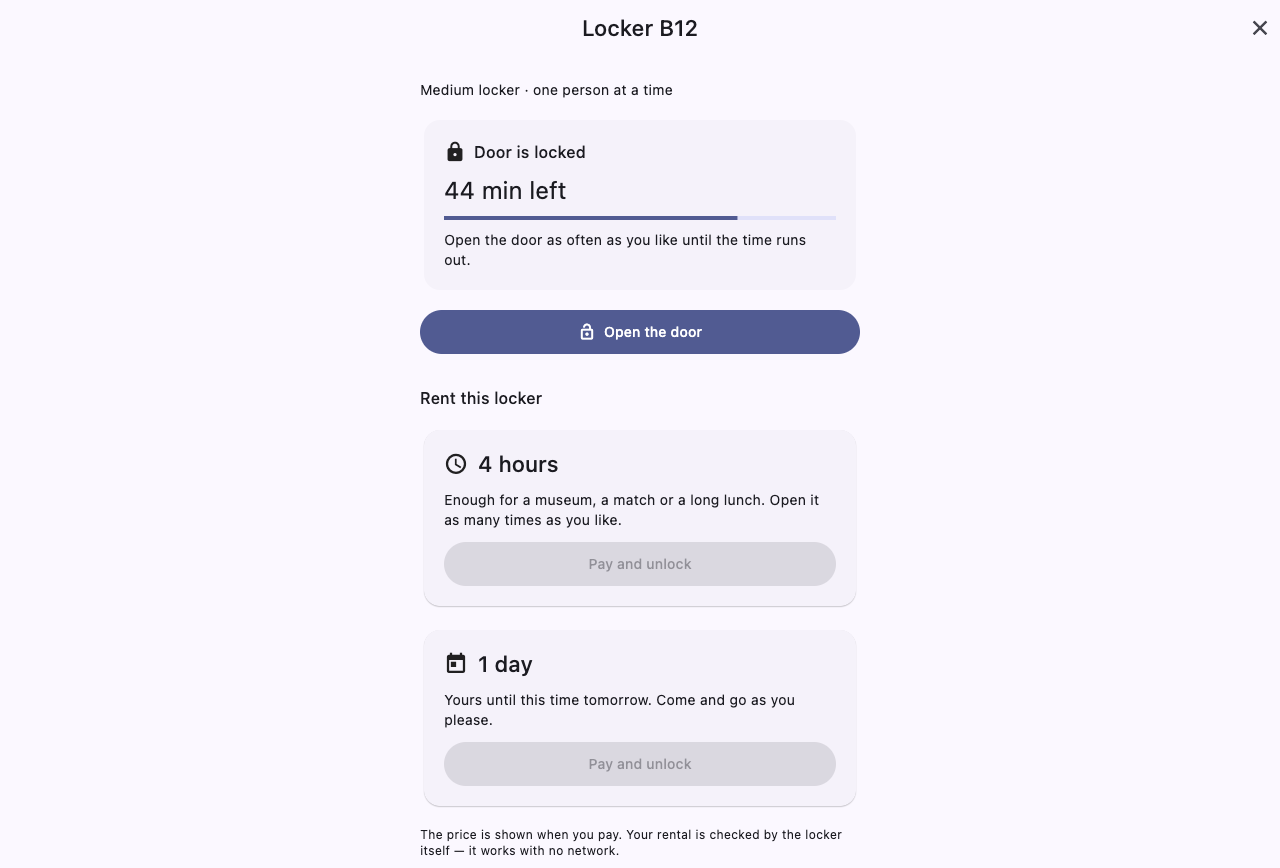
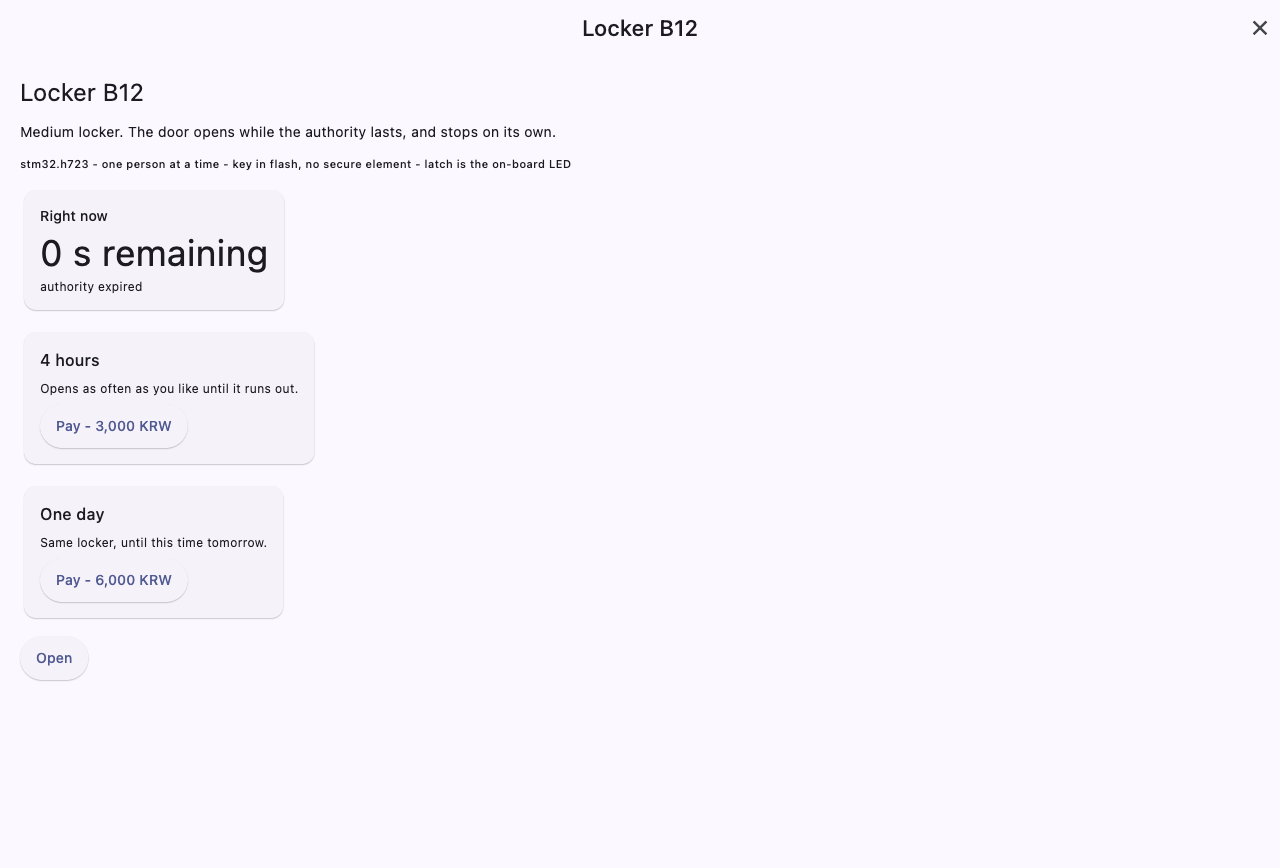
Sample: board_over_serial

diff --git a/tools/appplayer.py b/tools/appplayer.py
@@ -9,11 +9,11 @@ the player the reader will use.
 
 Requirements
   * AppPlayer (macOS) with the debug MCP switched on
-    (Settings → Developer → Debug MCP, or `defaults write com.makemind.appplayer
+    (Settings → Developer → Debug MCP, or `defaults write <its bundle id>
     flutter.settings.debug_mcp -bool true` before launch).
   * APPPLAYER_APP   path to AppPlayer.app            (default: /Applications/AppPlayer.app)
   * APPPLAYER_PORT  debug MCP port                   (default: 7931; Pro listens on 7930)
-  * APPPLAYER_DOMAIN preferences domain                (default: com.makemind.appplayer)
+  * APPPLAYER_DOMAIN preferences domain                (default: the app's bundle id)
 
 As a library:
     from appplayer import AppPlayer
@@ -34,19 +34,33 @@ As a command:
 from __future__ import annotations
 
 import base64
+import hashlib
 import json
 import os
 import plistlib
 import shutil
 import subprocess
 import sys
+import tempfile
 import time
 import urllib.request
 
-# Which tier: the Standard player by default; `APPPLAYER_DOMAIN=com.makemind.appplayerPro`
-# with `APPPLAYER_PORT=7930` drives the Pro one, whose preferences live apart.
-DOMAIN = os.environ.get("APPPLAYER_DOMAIN", "com.makemind.appplayer")
 APP = os.environ.get("APPPLAYER_APP", "/Applications/AppPlayer.app")
+
+
+def _bundle_id(app: str) -> str | None:
+    """The player's own identifier: its preferences and bundle store are named after it."""
+    try:
+        with open(os.path.join(app, "Contents", "Info.plist"), "rb") as f:
+            return plistlib.load(f).get("CFBundleIdentifier")
+    except OSError:
+        return None
+
+
+# Which player: the one APPPLAYER_APP points at, whose preferences live under its
+# own identifier (`app.appplayer` for Standard, `app.appplayer.pro` for Pro, which
+# also takes `APPPLAYER_PORT=7930`). APPPLAYER_DOMAIN overrides it.
+DOMAIN = os.environ.get("APPPLAYER_DOMAIN") or _bundle_id(APP) or "app.appplayer"
 PORT = int(os.environ.get("APPPLAYER_PORT", "7931"))
 BUNDLES = os.path.expanduser(f"~/Library/Application Support/{DOMAIN}/bundles")
 
@@ -70,12 +84,59 @@ def _pref_set(key: str, value: str, plist: str = PLIST) -> None:
     subprocess.run(["defaults", "write", plist, f"flutter.{key}", "-string", value], check=True)
 
 
-def _upsert(key: str, entry: dict, plist: str = PLIST) -> None:
+# Fields the player rewrites on its own (connect time, the name a node reports
+# about itself). A registration that differs only in these is the same one.
+_VOLATILE = {"servers.v1": {"createdAt", "lastConnectedAt", "metadata"},
+             "apps.v1": {"name", "metadataJson"}}
+
+
+def _same(key: str, a: dict, b: dict) -> bool:
+    skip = _VOLATILE.get(key, set())
+    return {k: v for k, v in a.items() if k not in skip} == {k: v for k, v in b.items() if k not in skip}
+
+
+def _upsert(key: str, entry: dict, plist: str = PLIST) -> bool:
+    """Write [entry] unless an equal one is already there. Returns whether it wrote."""
     raw = _pref_get(key, plist)
     items = json.loads(raw) if raw else []
+    current = next((i for i in items if i.get("id") == entry["id"]), None)
+    if current is not None and _same(key, current, entry):
+        return False
     items = [i for i in items if i.get("id") != entry["id"]]
     items.append(entry)
     _pref_set(key, json.dumps(items), plist)
+    return True
+
+
+
+def _open_file(port: int) -> str:
+    """The label of the tile a sample left open — samples run in separate
+    processes, so the next one learns it from here."""
+    return os.path.join(tempfile.gettempdir(), f"appplayer-driver-{port}.open")
+
+
+def _remember_open(port: int, label: str) -> None:
+    with open(_open_file(port), "w") as f:
+        f.write(label)
+
+
+def _recall_open(port: int) -> str:
+    try:
+        return open(_open_file(port)).read().strip()
+    except FileNotFoundError:
+        return ""
+
+
+def _tree_digest(root: str) -> str:
+    h = hashlib.sha256()
+    for d, dirs, files in sorted(os.walk(root)):
+        dirs.sort()
+        for f in sorted(files):
+            p = os.path.join(d, f)
+            h.update(os.path.relpath(p, root).encode())
+            with open(p, "rb") as fh:
+                h.update(fh.read())
+    return h.hexdigest()
 
 
 class AppPlayer:
@@ -91,9 +152,10 @@ class AppPlayer:
     def register_server(self, server_id: str, name: str, cwd: str,
                         command: str = "dart", args: list[str] | None = None,
                         description: str = "") -> None:
-        """Register a stdio MCP server as a launcher app. Read at the next launch."""
+        """Register a stdio MCP server as a launcher app. Already registered as is:
+        nothing is written and the running player is kept."""
         now = time.strftime("%Y-%m-%dT%H:%M:%S")
-        _upsert("servers.v1", plist=self.plist, entry={
+        wrote = _upsert("servers.v1", plist=self.plist, entry={
             "id": server_id, "name": name, "description": description,
             "transportType": "stdio",
             "transportConfig": {"command": command,
@@ -101,7 +163,7 @@ class AppPlayer:
                                 "workingDirectory": os.path.abspath(cwd)},
             "createdAt": now, "lastConnectedAt": None, "isFavorite": False, "metadata": None,
         })
-        _upsert("apps.v1", plist=self.plist, entry={
+        wrote |= _upsert("apps.v1", plist=self.plist, entry={
             "id": server_id, "name": name, "type": "server", "serverConfigId": server_id,
             "dashboardLayout": "grid", "dashboardSize": "twoByTwo", "trustLevel": "basic",
         })
@@ -109,12 +171,12 @@ class AppPlayer:
     def register_http_server(self, server_id: str, name: str, base_url: str, description: str = "") -> None:
         """Register a streamable-HTTP MCP server (one process several clients share)."""
         now = time.strftime("%Y-%m-%dT%H:%M:%S")
-        _upsert("servers.v1", plist=self.plist, entry={
+        wrote = _upsert("servers.v1", plist=self.plist, entry={
             "id": server_id, "name": name, "description": description,
             "transportType": "streamableHttp", "transportConfig": {"baseUrl": base_url},
             "createdAt": now, "lastConnectedAt": None, "isFavorite": False, "metadata": None,
         })
-        _upsert("apps.v1", plist=self.plist, entry={
+        wrote |= _upsert("apps.v1", plist=self.plist, entry={
             "id": server_id, "name": name, "type": "server", "serverConfigId": server_id,
             "dashboardLayout": "grid", "dashboardSize": "twoByTwo", "trustLevel": "basic",
         })
@@ -127,13 +189,16 @@ class AppPlayer:
             raw = _pref_get(key, self.plist)
             entries = json.loads(raw) if raw else []
             kept = [e for e in entries if e.get("id") != server_id and e.get("serverConfigId") != server_id]
-            _pref_set(key, json.dumps(kept), self.plist)
+            if len(kept) != len(entries):
+                _pref_set(key, json.dumps(kept), self.plist)
 
     def install_bundle(self, bundle_dir: str) -> str:
         """Copy a .mbd folder into the player's bundle store. Returns its id."""
         man = json.load(open(os.path.join(bundle_dir, "manifest.json")))
         bid = man["manifest"]["id"]
         dst = os.path.join(BUNDLES, bid)
+        if os.path.exists(dst) and _tree_digest(dst) == _tree_digest(bundle_dir):
+            return bid
         if os.path.exists(dst):
             shutil.rmtree(dst)
         shutil.copytree(bundle_dir, dst)
@@ -144,6 +209,60 @@ class AppPlayer:
         return bool(r.stdout.strip())
 
     def restart(self, width: int = 1280, height: int = 900) -> None:
+        """Bring the player to its launcher at [width] x [height], every app closed.
+
+        A running player is reused: back to the launcher, then the tile that was
+        open is disconnected from its context menu (its stdio server exits, the
+        next open starts it fresh). The player is launched only when it is not
+        running."""
+        if self._listening() and self._back_to_launcher():
+            self._disconnect_last()
+            self._resize(width, height)
+            return
+        self._relaunch(width, height)
+
+    def _back_to_launcher(self) -> bool:
+        self.sid = self.path = None
+        for _ in range(6):
+            try:
+                if self.at_launcher():
+                    return True
+                self.home()
+            except Exception:  # noqa: BLE001 — a player that cannot answer gets relaunched
+                return False
+            time.sleep(0.8)
+        return self.at_launcher()
+
+    def _disconnect_last(self) -> None:
+        """Right-click the last opened tile and choose Disconnect."""
+        label = _recall_open(self.port)
+        if not label:
+            return
+        hits = [r for t, r in self.texts(label) if t == label]
+        if hits:
+            r = hits[-1]
+            self._text_result("ui.tap", {"x": r[0] + r[2] / 2, "y": r[1] - 20, "button": "secondary"})
+            for _ in range(10):
+                time.sleep(0.3)
+                if self.has_text("Disconnect"):
+                    self.tap("Disconnect")
+                    break
+        _remember_open(self.port, "")
+
+    def _resize(self, width: int, height: int) -> None:
+        # Move first: a window left against the screen's edge is clipped there
+        # and comes out narrower than asked.
+        subprocess.run(["osascript", "-e",
+                        f'tell application "System Events" to tell process "AppPlayer" '
+                        f'to set position of front window to {{40, 40}}'],
+                       capture_output=True)
+        subprocess.run(["osascript", "-e",
+                        f'tell application "System Events" to tell process "AppPlayer" '
+                        f'to set size of front window to {{{width}, {height}}}'],
+                       capture_output=True)
+        time.sleep(0.5)
+
+    def _relaunch(self, width: int, height: int) -> None:
         """Quit the player that owns the debug port (only that one), launch, resize."""
         r = subprocess.run(["lsof", f"-tiTCP:{self.port}", "-sTCP:LISTEN"], capture_output=True, text=True)
         for pid in r.stdout.split():
@@ -153,7 +272,10 @@ class AppPlayer:
                 break
             time.sleep(0.5)
         subprocess.run(["defaults", "write", self.plist, "flutter.settings.debug_mcp", "-bool", "true"], check=True)
-        subprocess.run(["open", "-n", self.app], check=True)
+        # -g: launch without bringing the player to the front. The gate relaunches it
+        # for every sample; activating it each time takes the keyboard and the
+        # screen away from whoever is working on this machine.
+        subprocess.run(["open", "-g", "-n", self.app], check=True)
         for _ in range(60):
             if self._listening():
                 break
@@ -161,10 +283,7 @@ class AppPlayer:
         else:
             raise SystemExit(f"AppPlayer did not open its debug MCP on {self.port}")
         time.sleep(1.5)
-        subprocess.run(["osascript", "-e",
-                        f'tell application "System Events" to tell process "AppPlayer" '
-                        f'to set size of front window to {{{width}, {height}}}'],
-                       capture_output=True)
+        self._resize(width, height)
         self.sid = self.path = None
 
     # -------------------------------------------------------------------- mcp
@@ -238,6 +357,7 @@ class AppPlayer:
             for _ in range(20):
                 time.sleep(0.5)
                 if not self.at_launcher():
+                    _remember_open(self.port, label)
                     return {"ok": True, "opened": server_id}
         raise AssertionError(f"launcher tile '{label}' did not open")
 
@@ -252,6 +372,7 @@ class AppPlayer:
                 for _ in range(20):
                     time.sleep(0.5)
                     if not self.at_launcher():
+                        _remember_open(self.port, label)
                         return {"ok": True, "opened": label}
                 raise AssertionError(f"tile '{label}' did not open")
             self.drag(drag_x, drag_from_y, drag_x, drag_to_y, hold_ms=0)

diff --git a/verify.py b/verify.py
@@ -32,11 +32,19 @@ if tcp:
                    os.environ.get("BOARD_TCP_NAME", "")))
 for sid, shot, name in boards:
     ap.restart()
+    launcher = {t for t, _ in ap.texts()}   # the launcher stays painted under an open app
     ap.open_server(sid)
-    # The board's own name in the title bar is the proof its screen arrived;
-    # what the screen says below that is the board's business, not this
-    # sample's. A board that offers an LED gets its button pressed.
-    ap.wait_text(name or "LED")
+    # The title bar carries the screen the board serves (its app's own title,
+    # not the server's name), so the proof its screen arrived is that the
+    # launcher is gone and the board's page has text of its own. What it says
+    # is the board's business, not this sample's. A board that offers an LED
+    # gets its button pressed.
+    for _ in range(40):
+        if not ap.at_launcher() and len({t for t, _ in ap.texts()} - launcher) > 3:
+            break
+        time.sleep(0.5)
+    else:
+        raise AssertionError(f"{name or sid}: no screen arrived from the board")
     ap.tap("LED on") if ap.has_text("LED on") else None
     time.sleep(1)
     ap.shot(f"{CAP}/{shot}")
